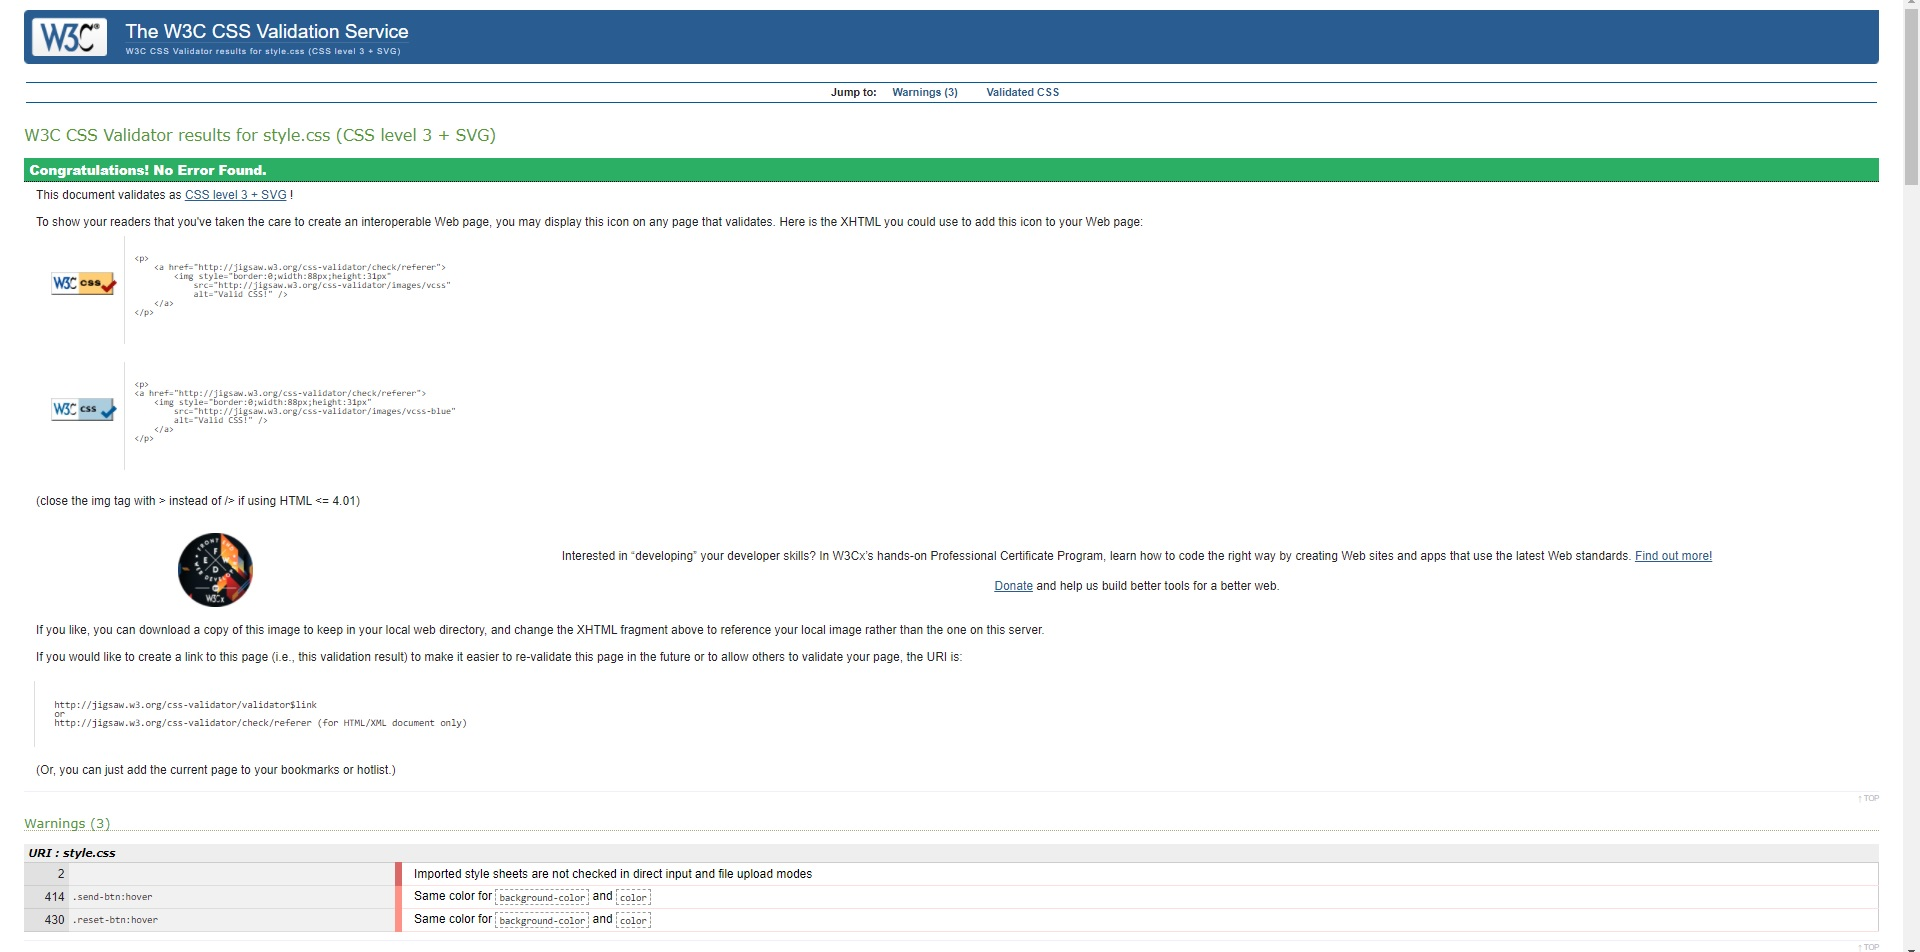
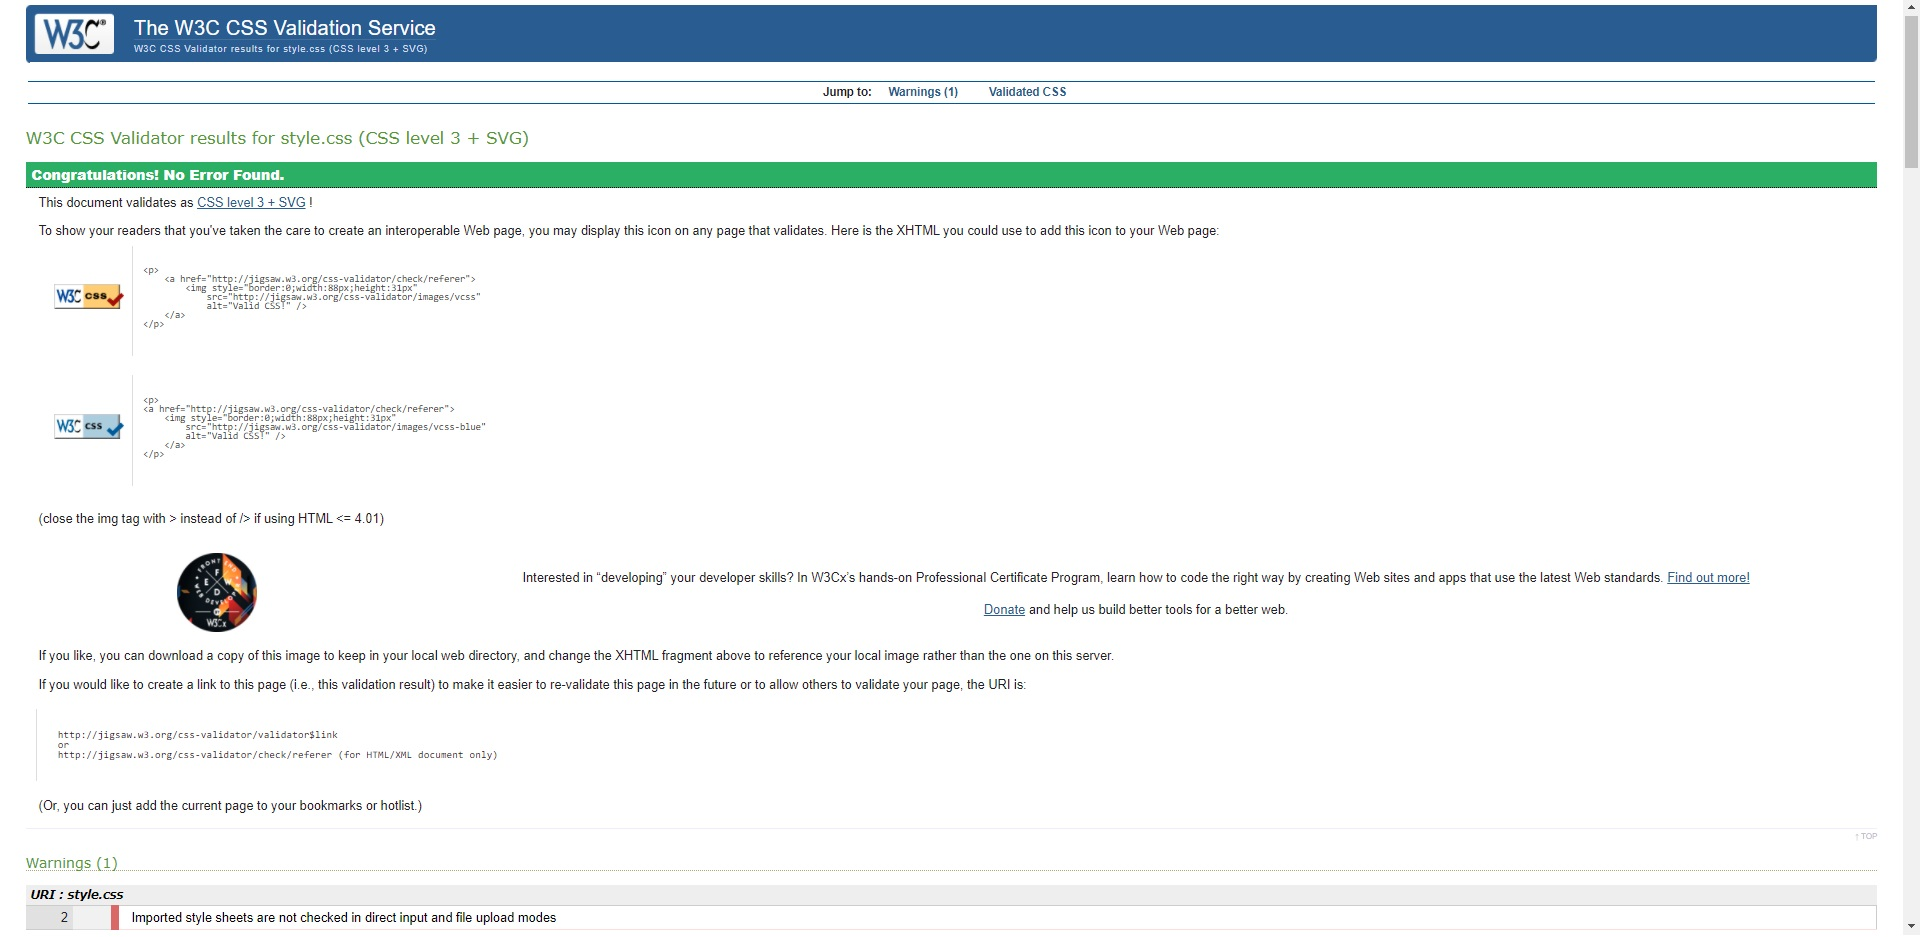
new: created validation doc in dir, mod: validation section finished in readme file

Changed region(s): [[0.0, 0.0, 1.0, 0.3404], [0.0, 0.5261, 1.0, 1.0], [0.0312, 0.4023, 0.25, 0.4952]]

diff --git a/writeup_files/validation/validation_document.md b/writeup_files/validation/validation_document.md
@@ -1,0 +1,64 @@
+# Validation
+
+# Homepage - Google Search (index.html)
+
+After running the HTML5 online validation, the final results came in that I had no errors or warnings, please see screenshot below. 
+
+![Screenshot of valid index page](writeup_files/validation/index-validation.jpg)
+
+# Local Search Page (locals.html)
+
+After running the HTML5 online validation, the final results came in that I had no errors or warnings, please see screenshot below. 
+
+![Screenshot of valid locals page](writeup_files/validation/locals-validation.jpg)
+
+# Main CSS (style.css)
+
+After running the CSS3 online validation, the final results came in that I had no errors but had 3 warnings, please see screenshot below.  
+
+![Screenshot of valid style.css](writeup_files/validation/style.css-validation-warnings.jpg)
+
+This first warning is nothing serious because it relates to the Google font import and the online validator did not check it. The second and third warnings are simple fixes, all i did was change the background colour from white to transparent for both buttons hover effects. 
+
+![Screenshot of valid style.css](writeup_files/validation/style.css-validation.jpg)
+
+# Media Queries (media_queries.css)
+
+After running the CSS3 online validation, the final results came in that I had no errors or warnings, please see screenshot below.  
+
+![Screenshot of valid media_query.css](writeup_files/validation/media-query.css-validation.jpg)
+
+# Google Search CSS (google_search.css)
+
+After running the CSS3 online validation, the final results came in that I had no errors or warnings, please see screenshot below.  
+
+![Screenshot of valid google_search.css](writeup_files/validation/google-search.css-validation.jpg)
+
+# Local Search CSS (local_search.css)
+
+After running the CSS3 online validation, the final results came in that I had no errors or warnings, please see screenshot below.  
+
+![Screenshot of valid local_search.css](writeup_files/validation/local-search.css-validation.jpg)
+
+# Contrast Checker
+
+I used this online contrast checker, the reason I had chosen to do this is to make sure that my project meets accessibility standards. 
+
+### Body
+The screenshot below shows that the background colour and foreground colour that I have chosen for my project body and it passes.
+
+![Screenshot of passed body colours](writeup_files/validation/contrast1-validation.jpg)
+
+### Header and Footer
+The screenshot below shows that the background colour and foreground colour that I have chosen for my project header and project footer and it passes.
+
+![Screenshot of passed header and footer colours](writeup_files/validation/contrast2-validation.jpg)
+
+### Hover and Active Classes
+The screenshot below shows that the background colour and foreground colour that I have chosen for my hover and active classes and it fails on the background colour.
+
+![Screenshot of failed hover and active colours](writeup_files/validation/contrast3-validation.jpg)
+
+After seeing the background colour not meeting the accessibility standards, i decided to change the background colour so that it could meet accessibility standards.
+
+![Screenshot of passed hover and active colours](writeup_files/validation/contrast4-validation.jpg)

diff --git a/README.md b/README.md
@@ -2,7 +2,7 @@
 
 [Click Here To Visit My Deployed Project Site](#)
 
-![Image of Project](assets/img/main-site-img.jpg)
+![Image of Project](writeup_files/screenshots/main-site-img.jpg)
 
 ## Google Powered API Tradesperson Platform
 
@@ -188,6 +188,17 @@ Here is a list of programming languages that i used to create this project along
     * This online tool helped me to create the markdown tables for testing section of my readme file.
 
 # Validation
+In this section I have used a few different validation techniques to thoroughly make sure my project is fully compliant and accessible. I have used the W3C HTML5 and CSS3 online validation tools as well as a online contrast checker for the colours that i used in my project.
+
+If there is any non-compliant code or warnings within the project I will document it and then fix it and this will be the first step of my testing and debugging.
+
+HTML5 Validation -> [Visit Site]( https://validator.w3.org/)
+
+CSS3 Validation -> [Visit Site]( https://jigsaw.w3.org/css-validator/)
+
+WebAIM Contrast Checker -> [Visit Site]( https://webaim.org/resources/contrastchecker/)
+
+### Validation Document -> [Visit Document](writeup_files/validation/validation_document.md)
 
 # Testing
 
